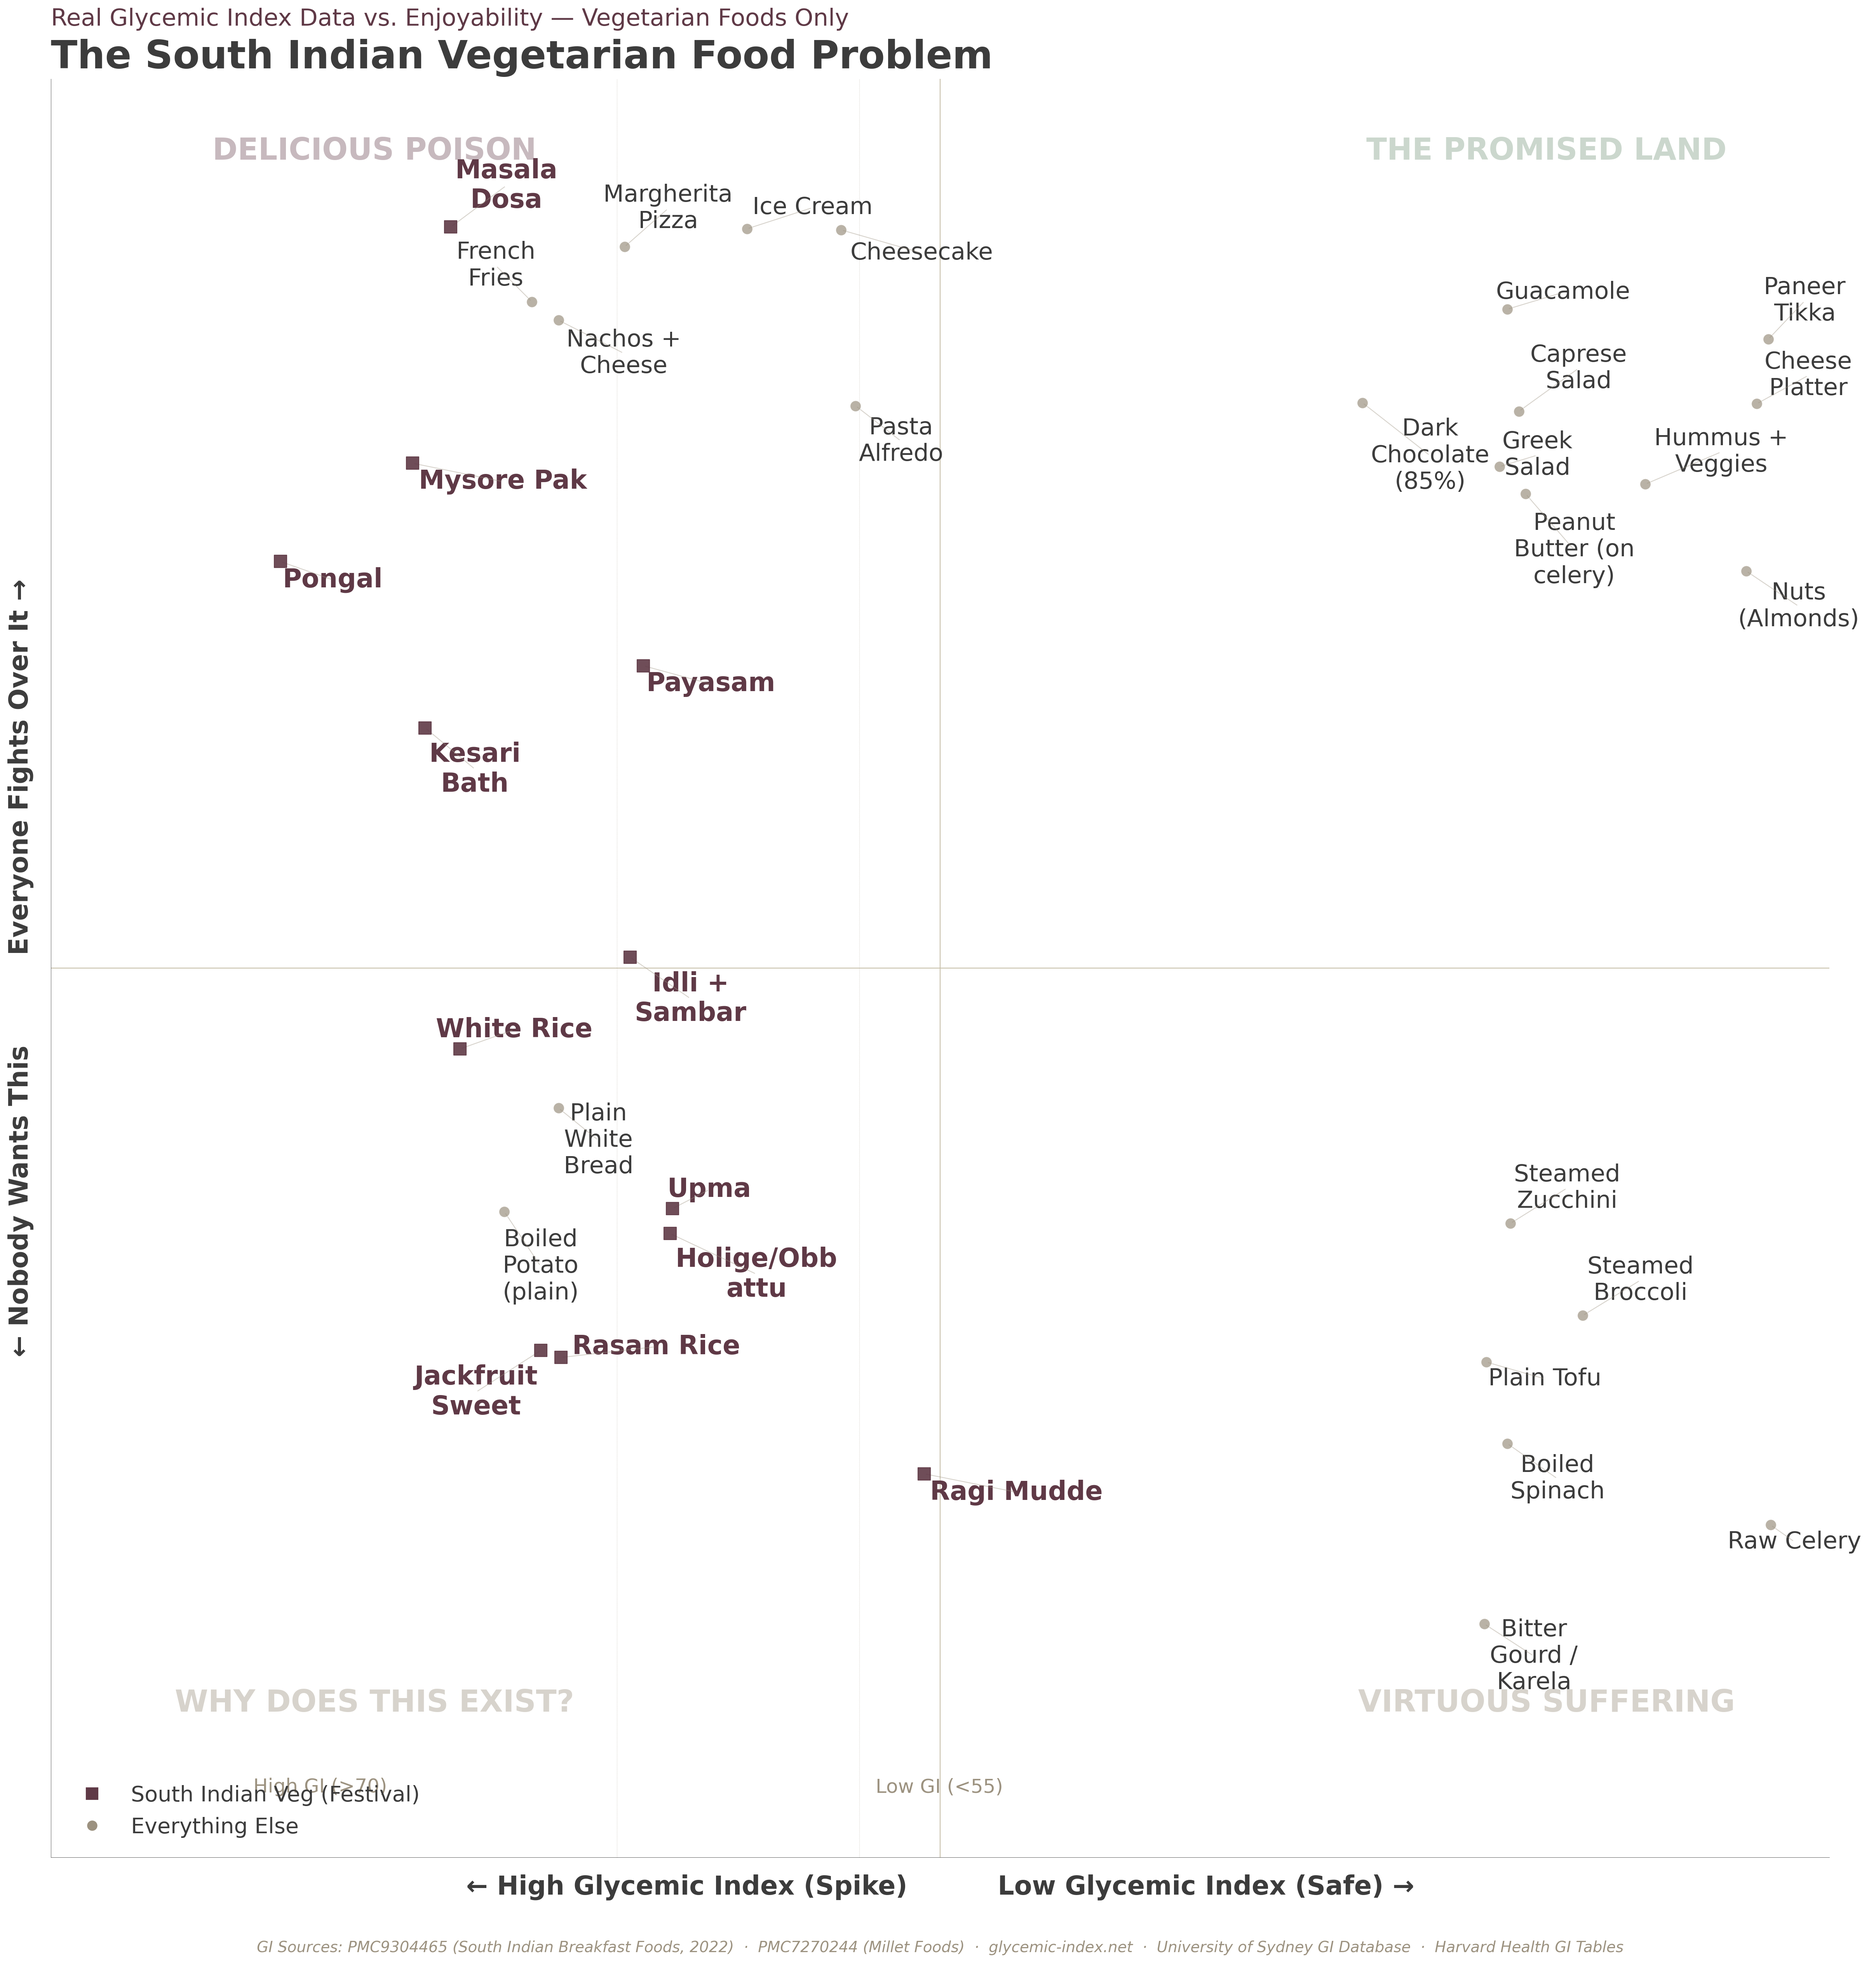
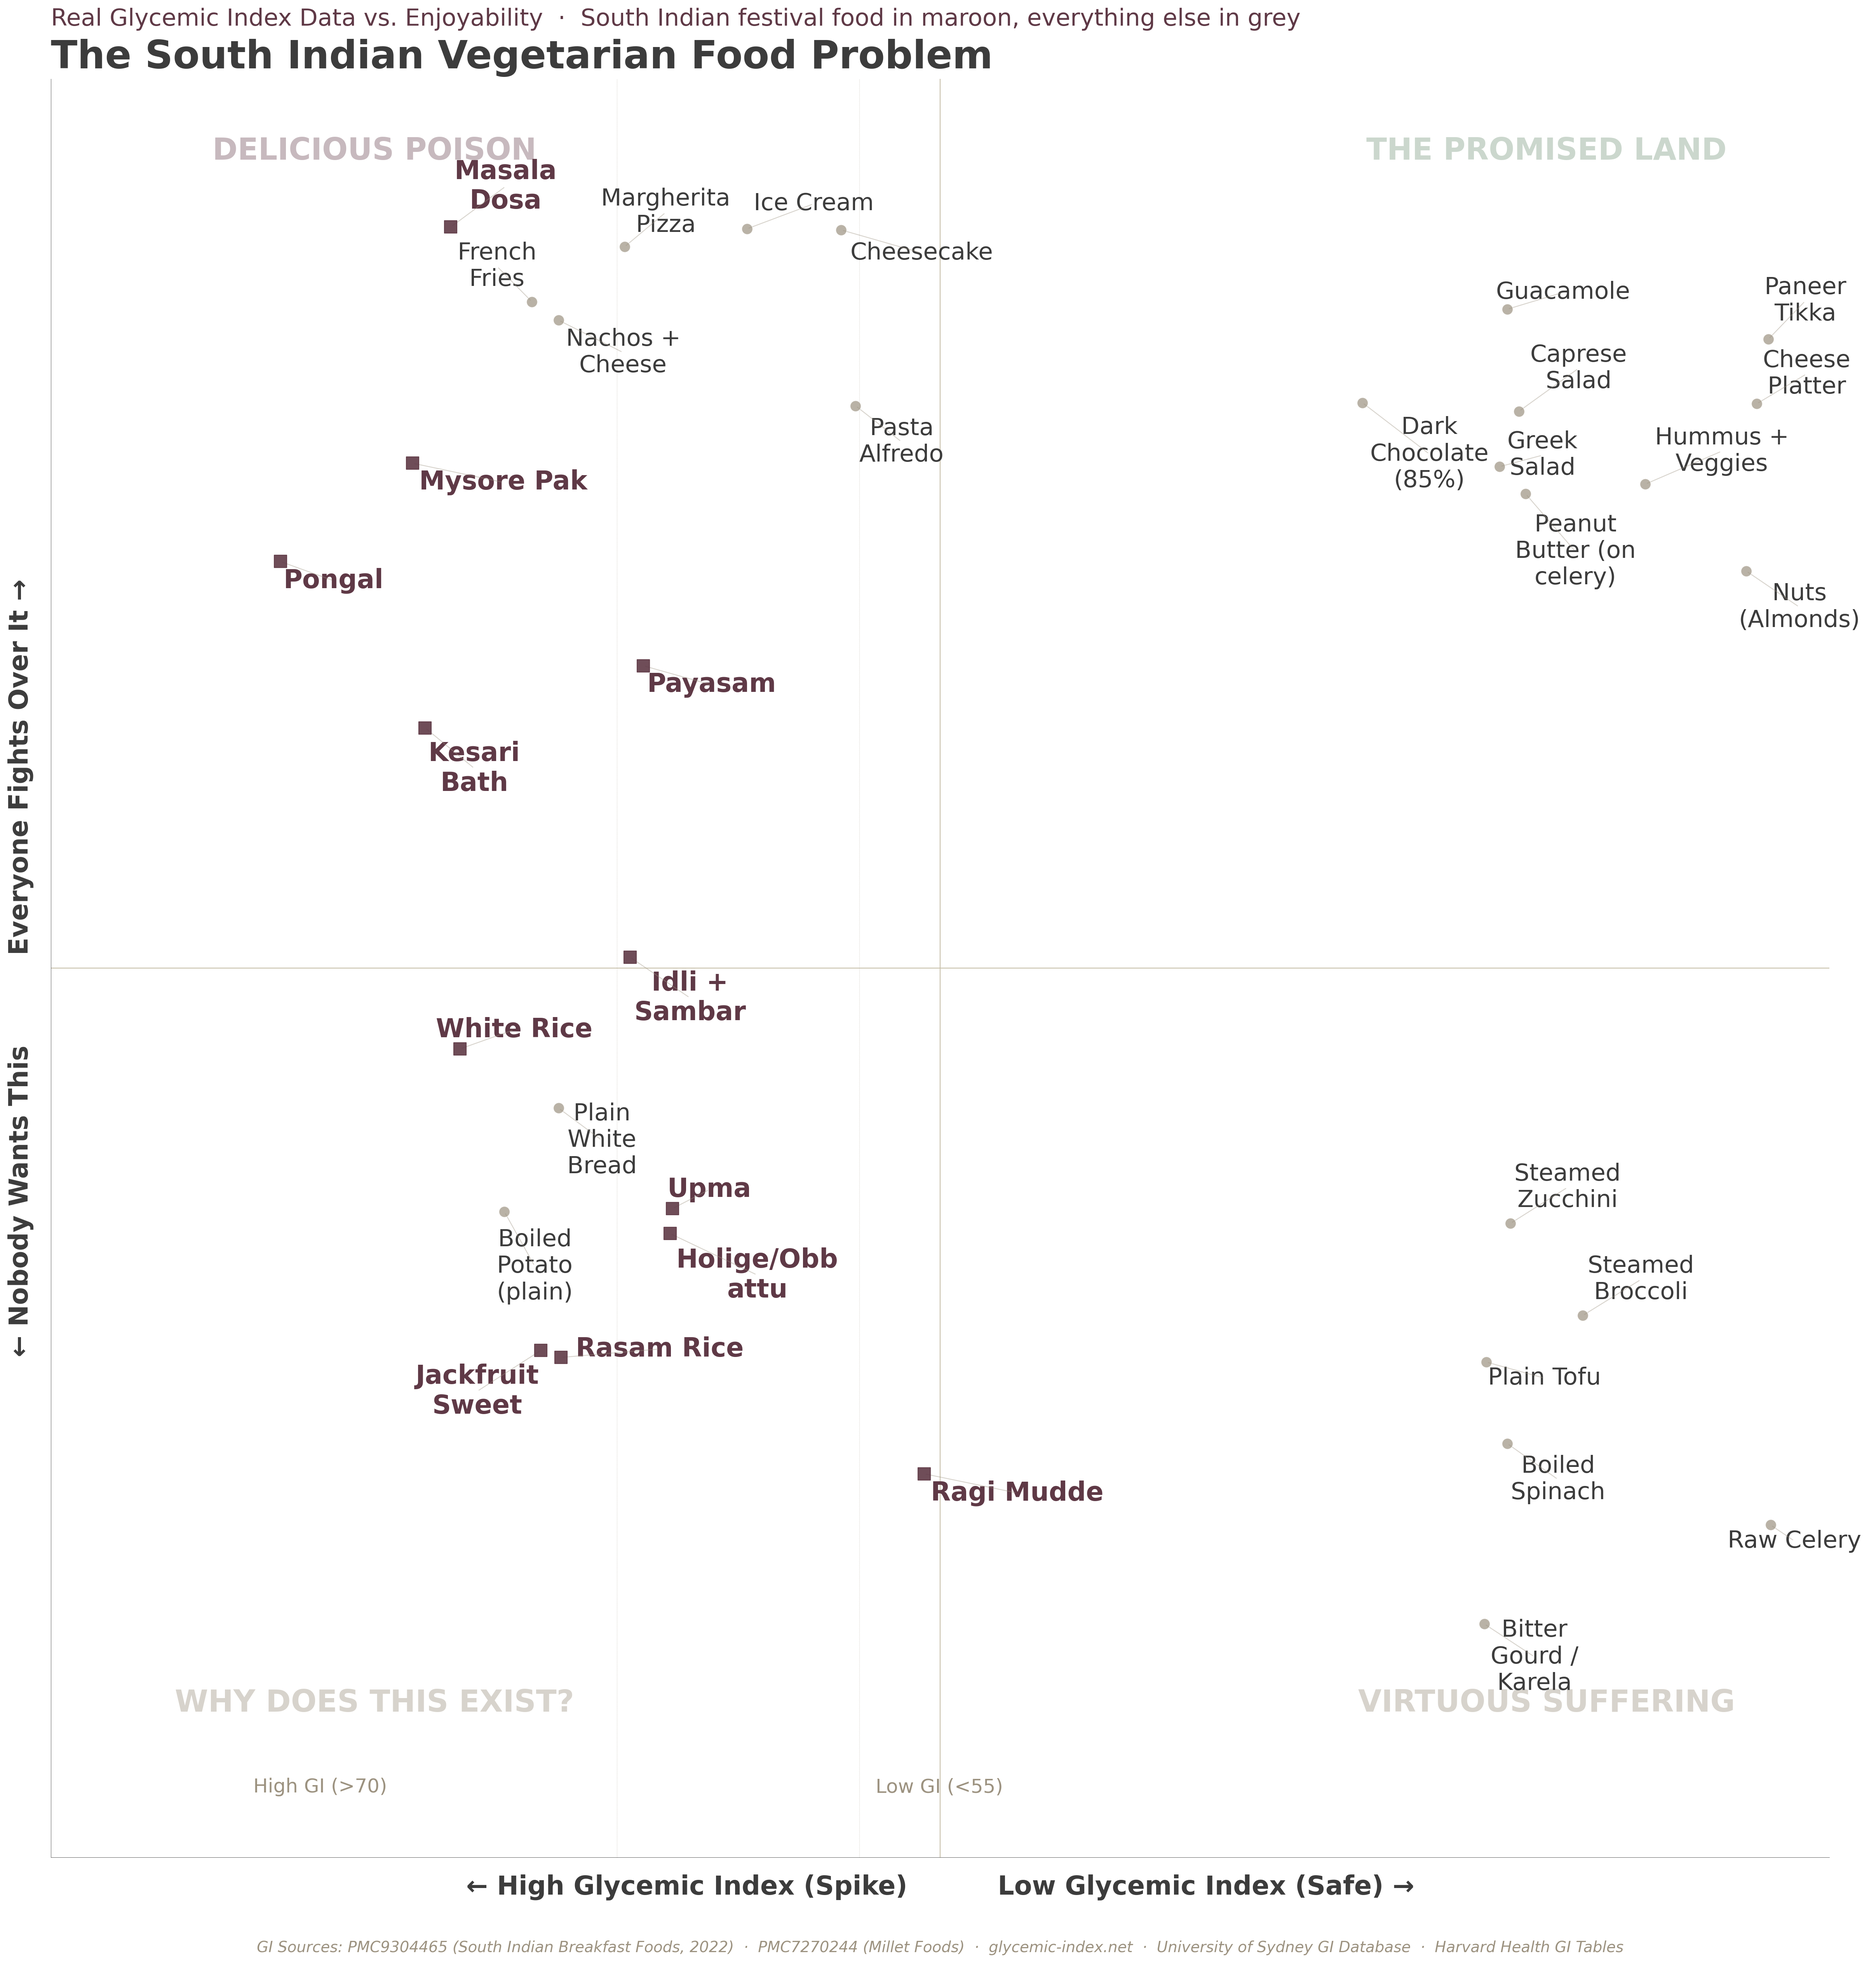
Drop legend; encode categories via marker color + subtitle

diff --git a/south-indian-food-2x2.py b/south-indian-food-2x2.py
@@ -143,15 +143,8 @@ adjust_text(texts, ax=ax,
             ensure_inside_axes=True,
             iterations=500)
 
-# Legend - minimal, Tufte-style
-h1 = plt.Line2D([0], [0], marker='s', color='none', markerfacecolor=ACCENT,
-                markersize=11, markeredgecolor=ACCENT, markeredgewidth=0.8,
-                label='South Indian Veg (Festival)')
-h2 = plt.Line2D([0], [0], marker='o', color='none', markerfacecolor=MID,
-                markersize=10, markeredgecolor=BG, markeredgewidth=0.5,
-                label='Everything Else')
-legend = ax.legend(handles=[h1, h2], loc='lower left', fontsize=20,
-                   frameon=False, labelcolor=TEXT)
+# No legend — categories direct-labeled via marker color (maroon = SI festival, grey = other)
+# and called out in the subtitle.
 
 # Axis labels
 ax.set_xlabel("← High Glycemic Index (Spike)          Low Glycemic Index (Safe) →",
@@ -162,7 +155,7 @@ ax.set_ylabel("← Nobody Wants This          Everyone Fights Over It →",
 # Title
 ax.set_title("The South Indian Vegetarian Food Problem",
              fontsize=36, fontweight='bold', color=TEXT, pad=10, loc='left')
-ax.text(0, 1.03, "Real Glycemic Index Data vs. Enjoyability — Vegetarian Foods Only",
+ax.text(0, 1.03, "Real Glycemic Index Data vs. Enjoyability  ·  South Indian festival food in maroon, everything else in grey",
         transform=ax.transAxes, fontsize=22, color=ACCENT, ha='left')
 
 ax.set_xlim(-11, 11)
